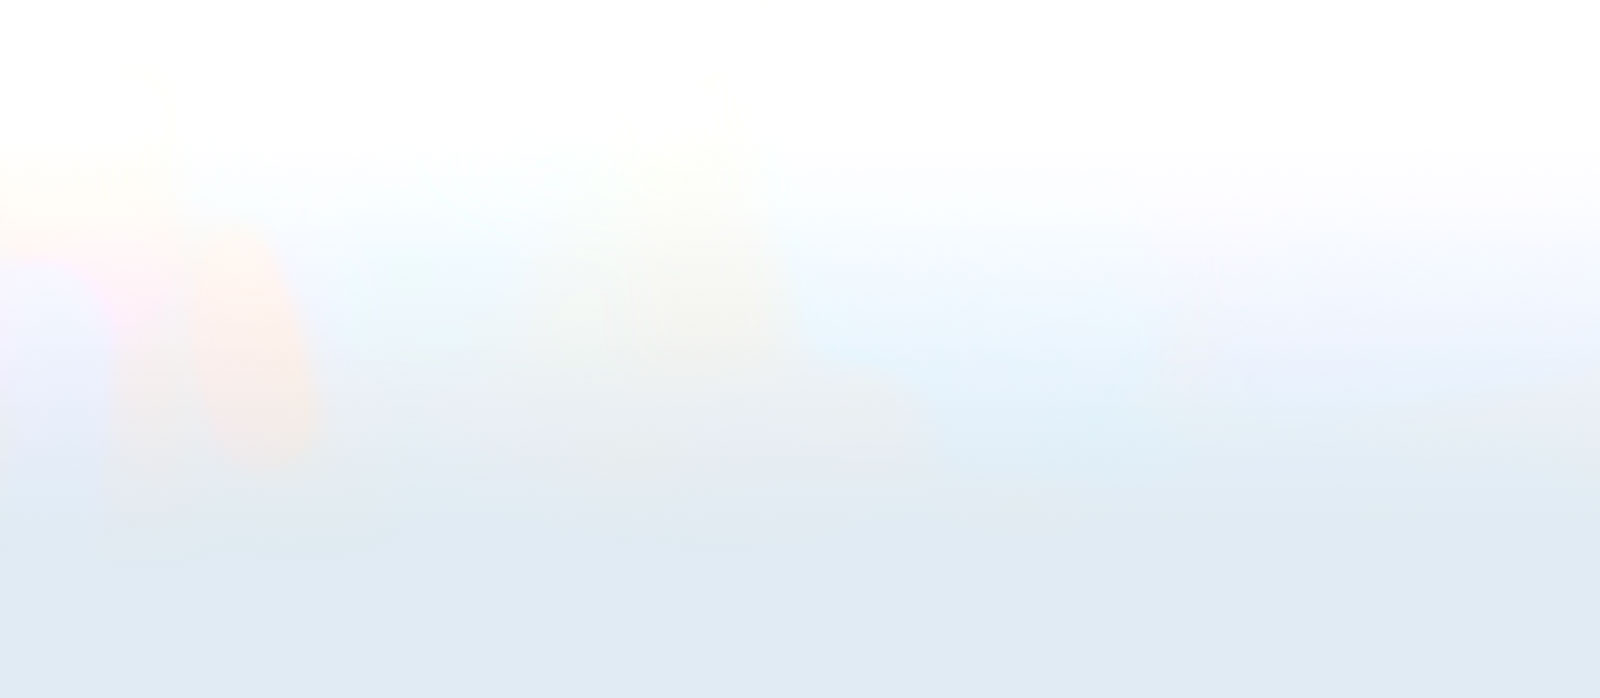
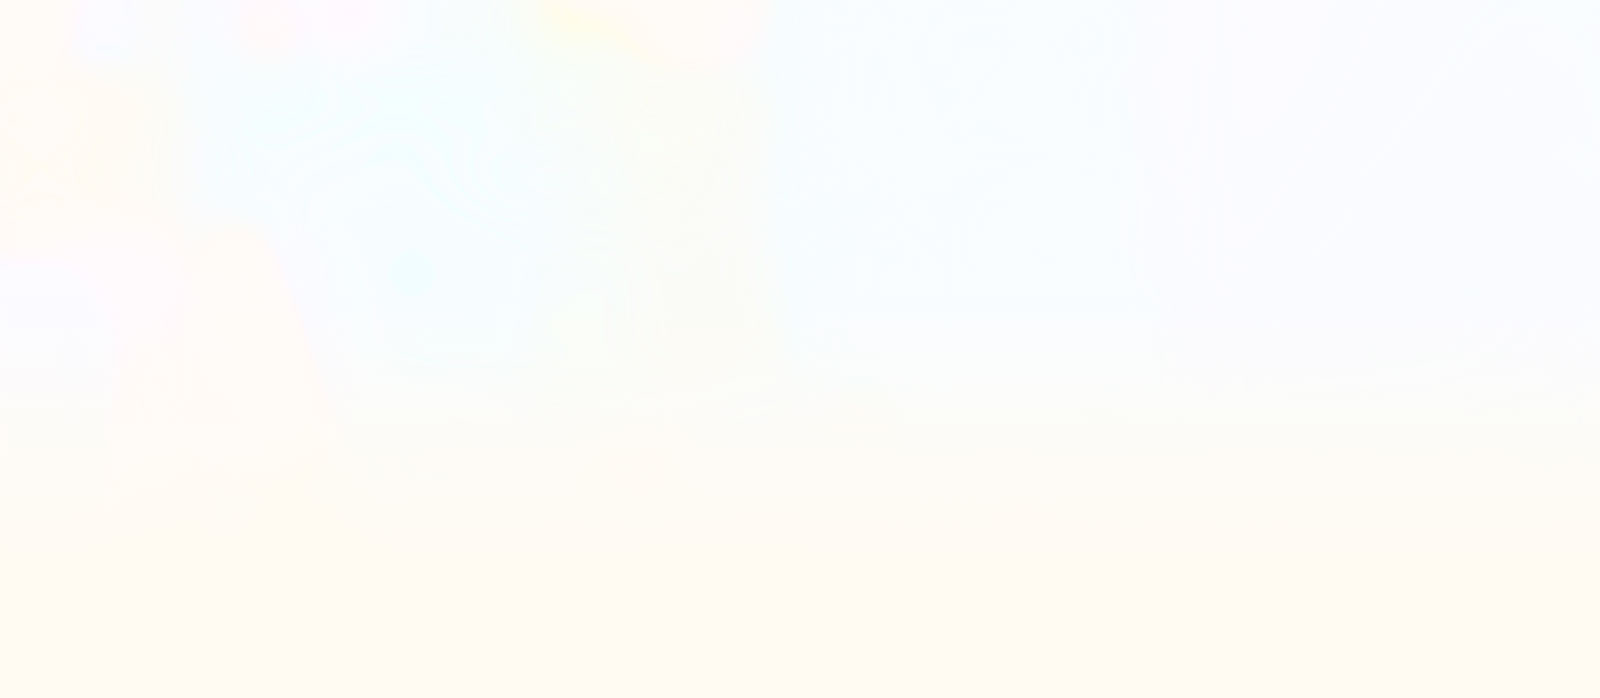
Changed site background.

diff --git a/wp-content/themes/mystile_child/custom.less b/wp-content/themes/mystile_child/custom.less
@@ -11,7 +11,7 @@
 
 body {
   margin: 0 auto !important; max-width: 75.998em;
-  background: @amano-light-blue url('images/layout/site-background.jpg') top center no-repeat fixed; padding: 0;
+  background: #fffbf2 url('images/layout/site-background.jpg') top center no-repeat fixed; padding: 0;
   background-size: 100%;
 }
 

diff --git a/wp-content/themes/mystile_child/custom.css b/wp-content/themes/mystile_child/custom.css
@@ -3,7 +3,7 @@
 body {
   margin: 0 auto !important;
   max-width: 75.998em;
-  background: #e0ebf3 url('images/layout/site-background.jpg') top center no-repeat fixed;
+  background: #fffbf2 url('images/layout/site-background.jpg') top center no-repeat fixed;
   padding: 0;
   background-size: 100%;
 }
